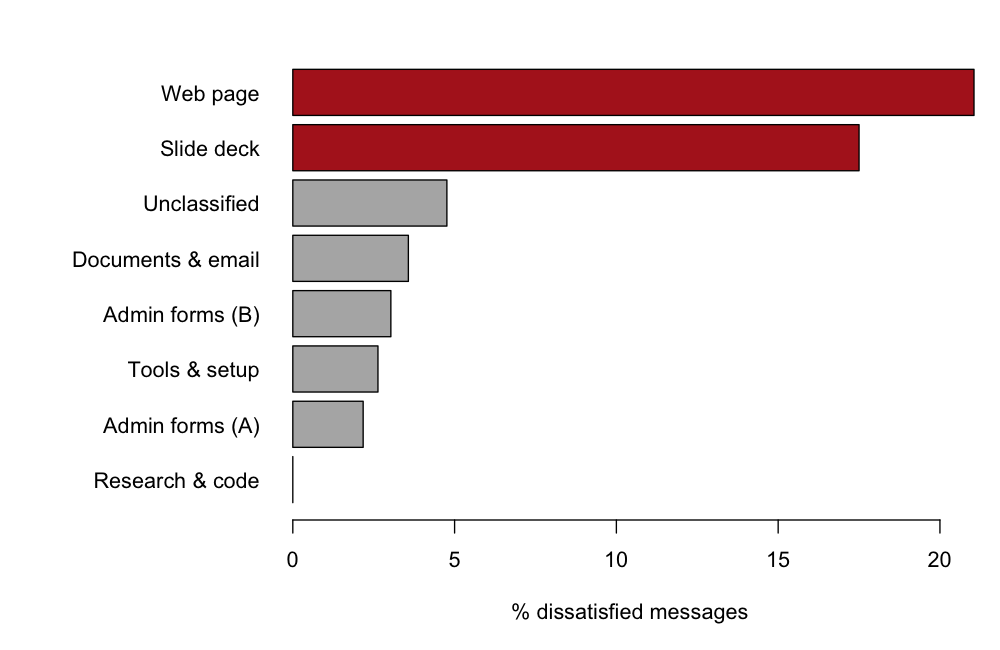
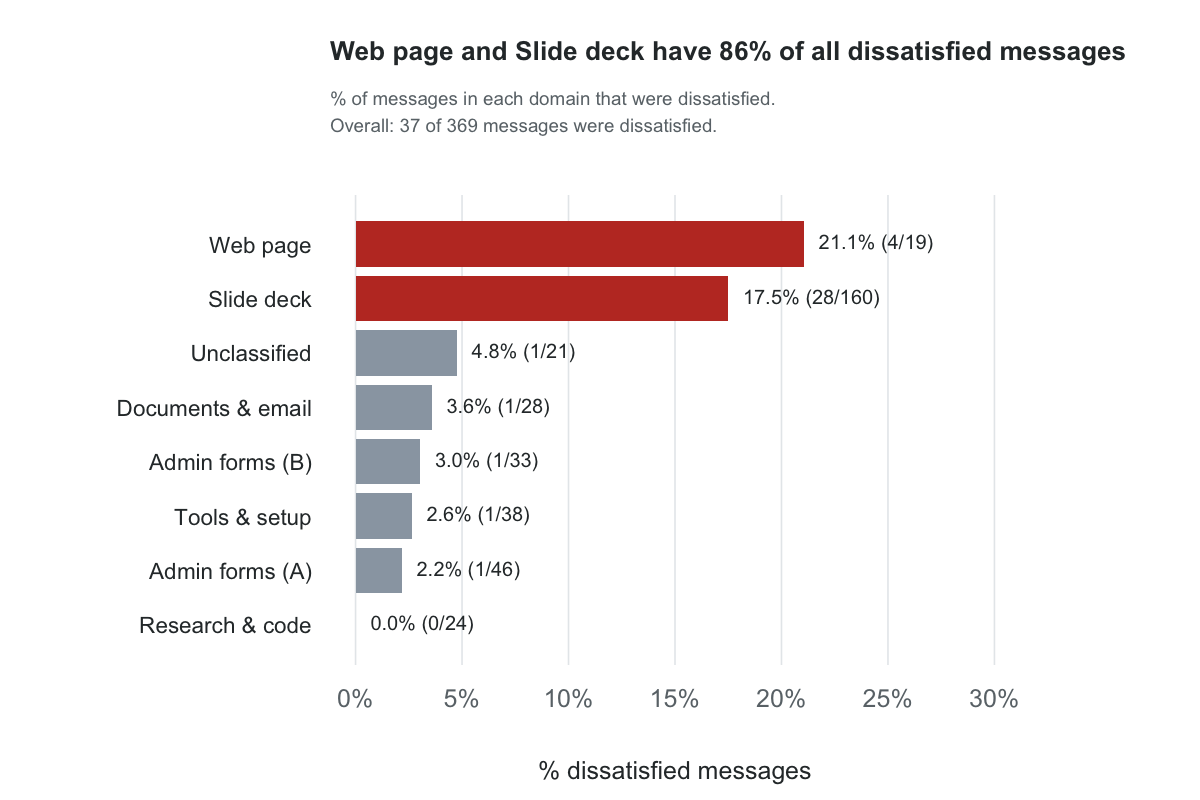
Redesign figures and rename position to session stage
- One figure style: title = finding, two-line subtitle = statistics, value labels, n per group, 95% CI
- Red highlight only for significant effects
- ANOVA figure: CI bars, side labels, rise per line, Session stage axis title
- Rename Position to Session stage (2c_ttest_stage, ANOVA tables and text)

Claude-Session: https://claude.ai/code/session_017mRZCnpDZ2aAQvkNgYw5Qy

diff --git a/results/3_anova.md b/results/3_anova.md
@@ -1,18 +1,18 @@
-# Two-way ANOVA: output type and position in a session
+# Two-way ANOVA: output type and session stage
 
 ## Purpose
 Tests 2b and 2c found more friction for visual prompts and for late prompts.
-This ANOVA tests each effect with the other effect held constant. It also tests if the effect of position changes with the output type (the interaction).
+This ANOVA tests each effect with the other effect held constant. It also tests if the effect of session stage changes with the output type (the interaction).
 
 ## Variables
 | Variable | Role | Definition |
 |---|---|---|
 | Dissatisfied reply | Dependent variable | 100 if the next user message in the same session is Dissatisfied or Mixed. 0 if not. The mean is the % of prompts with a dissatisfied reply. |
 | Output type | Independent variable | Visual: the prompt is about visual output (HTML, PPTX, PDF, slides, figures, layout). Text: all other prompts. |
-| Position | Independent variable | Early: the first half of the prompts in a session. Late: the second half. |
+| Session stage | Independent variable | Early: the first half of the prompts in a session. Late: the second half. |
 
 ## Table 1. Descriptive statistics
-| Output type, Position | *n* | *M* | *SD* |
+| Output type, Session stage | *n* | *M* | *SD* |
 |---|---|---|---|
 | Text, Early | 73 | 0.0 | 0.0 |
 | Text, Late | 71 | 8.5 | 28.0 |
@@ -23,21 +23,21 @@ This ANOVA tests each effect with the other effect held constant. It also tests 
 | Source | *df* | *F* | *p* | η²p |
 |---|---|---|---|---|
 | Output type | 1 | 8.03 | .005 | .03 |
-| Position | 1 | 8.51 | .004 | .03 |
-| Output type × Position | 1 | 0.16 | .686 | .00 |
+| Session stage | 1 | 8.51 | .004 | .03 |
+| Output type × Session stage | 1 | 0.16 | .686 | .00 |
 | Residual | 280 |  |  |  |
 
 *Note.* Type II sums of squares. η²p = partial eta-squared.
 
 ## Results
-The main effect of output type was significant. The main effect of position was significant. The interaction was not significant (Table 2).
+The main effect of output type was significant. The main effect of session stage was significant. The interaction was not significant (Table 2).
 
 ## Interpretation
 - **Output type:** real (*p* = .005); small effect (η²p = .03, 2.8% of the differences).
-- **Position:** real (*p* = .004); small effect (η²p = .03, 2.9% of the differences).
+- **Session stage:** real (*p* = .004); small effect (η²p = .03, 2.9% of the differences).
 - **Interaction:** can be chance (*p* = .686); negligible effect (η²p = .00, 0.059% of the differences).
 
-Output type and position are two separate factors in friction. Their effects add. The highest rate is for visual prompts late in a session (19.2%). The lowest rate is for text prompts early in a session (0.0%).
+Output type and session stage are two separate factors in friction. Their effects add. The highest rate is for visual prompts late in a session (19.2%). The lowest rate is for text prompts early in a session (0.0%).
 
 Real: *p* < .05. Small, medium, and large: Cohen (1988).
 

diff --git a/results/2c_ttest_stage.md b/results/2c_ttest_stage.md
@@ -7,10 +7,10 @@ This test finds if friction increases as a session continues. Language models ca
 | Variable | Role | Definition |
 |---|---|---|
 | Dissatisfied reply | Dependent variable | 100 if the next user message in the same session is Dissatisfied or Mixed. 0 if not. The mean is the % of prompts with a dissatisfied reply. |
-| Position | Independent variable | Early: the first half of the prompts in a session. Late: the second half. |
+| Session stage | Independent variable | Early: the first half of the prompts in a session. Late: the second half. |
 
 ## Table 1. Descriptive statistics
-| Position | *n* | *M* | *SD* |
+| Session stage | *n* | *M* | *SD* |
 |---|---|---|---|
 | Early | 135 | 3.7 | 19.0 |
 | Late | 149 | 14.1 | 34.9 |
